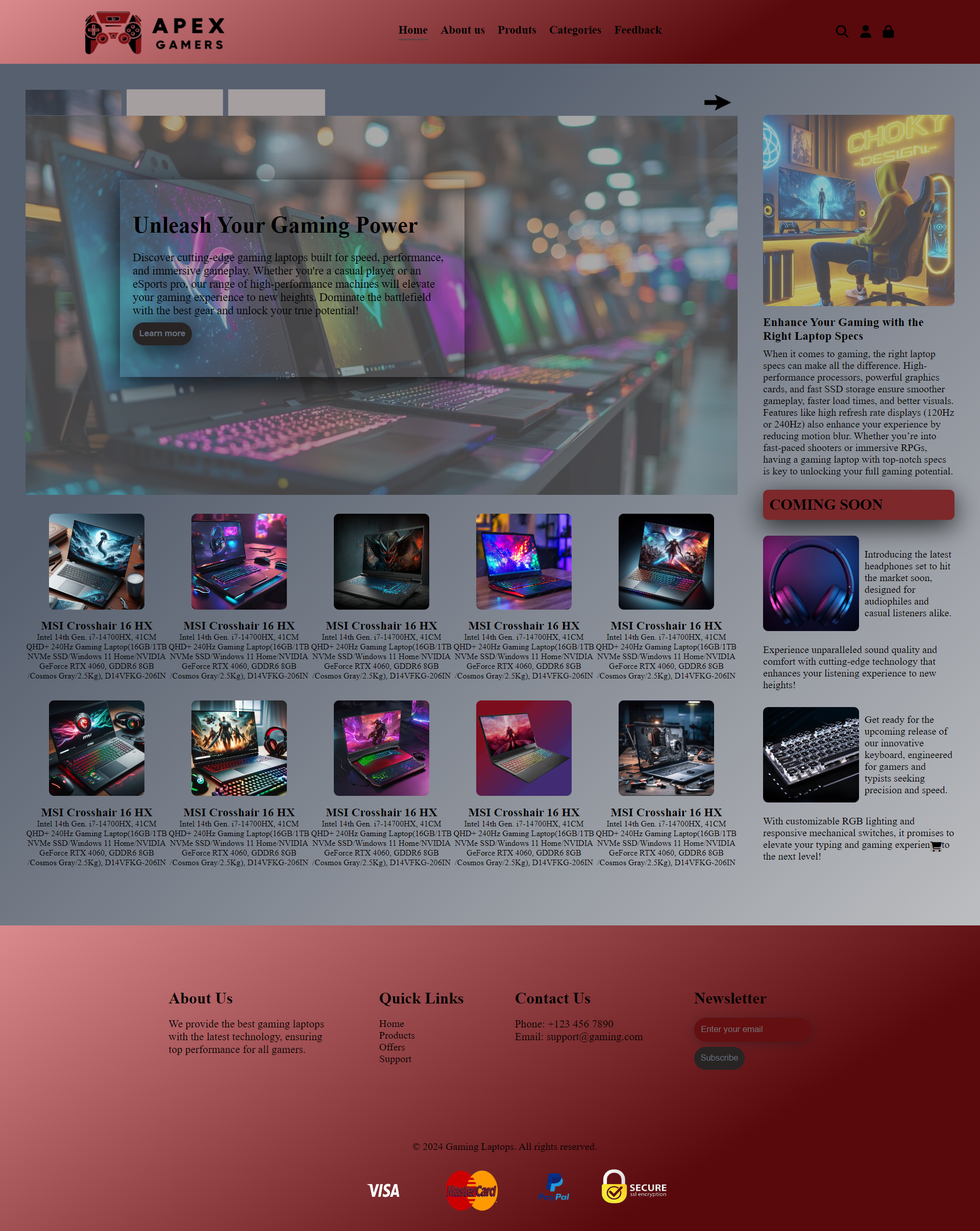
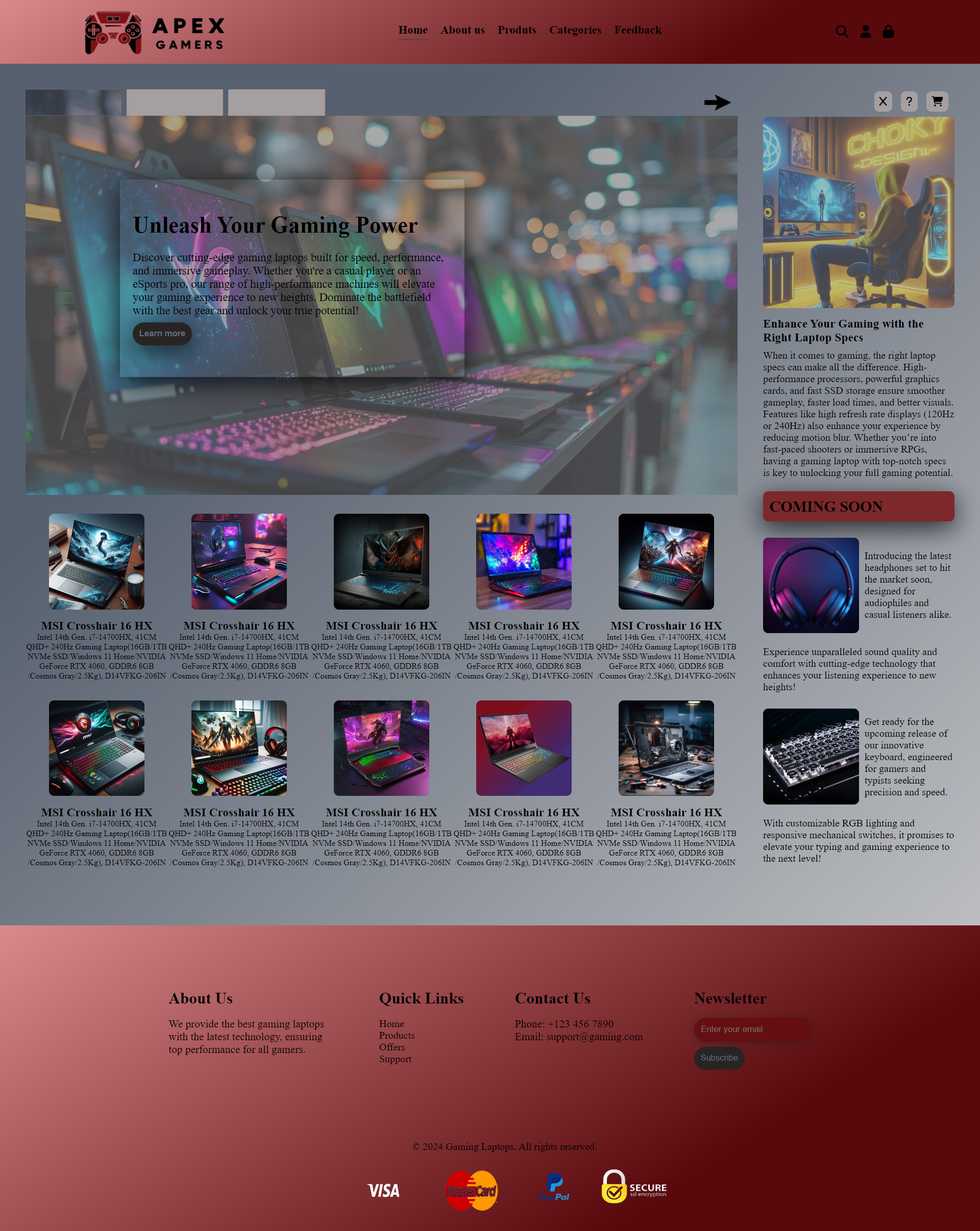
edit

Changed region(s): [[0.7812, 0.0622, 0.9688, 0.7149]]

diff --git a/css/style.css b/css/style.css
@@ -174,17 +174,22 @@ main{
 
 .right{
     margin-left: 40px;
-    margin-top: 40px;
+    margin-top: 43px;
     flex-basis: 20%;
     position: relative;
 
 }
+.right .right-icons {
+    position: absolute;
+    right: 0px;
+    top: -40px;
+
+}
 .right .right-icons i{
     background-color: #a69f9f; 
-    position: absolute;
-    right: 20px;
-    bottom: 25px;
-
+    margin-right: 10px;
+    padding: 8px;
+    border-radius: 8px;
 }
 .right div>img.gamer{
     width: 300px;
